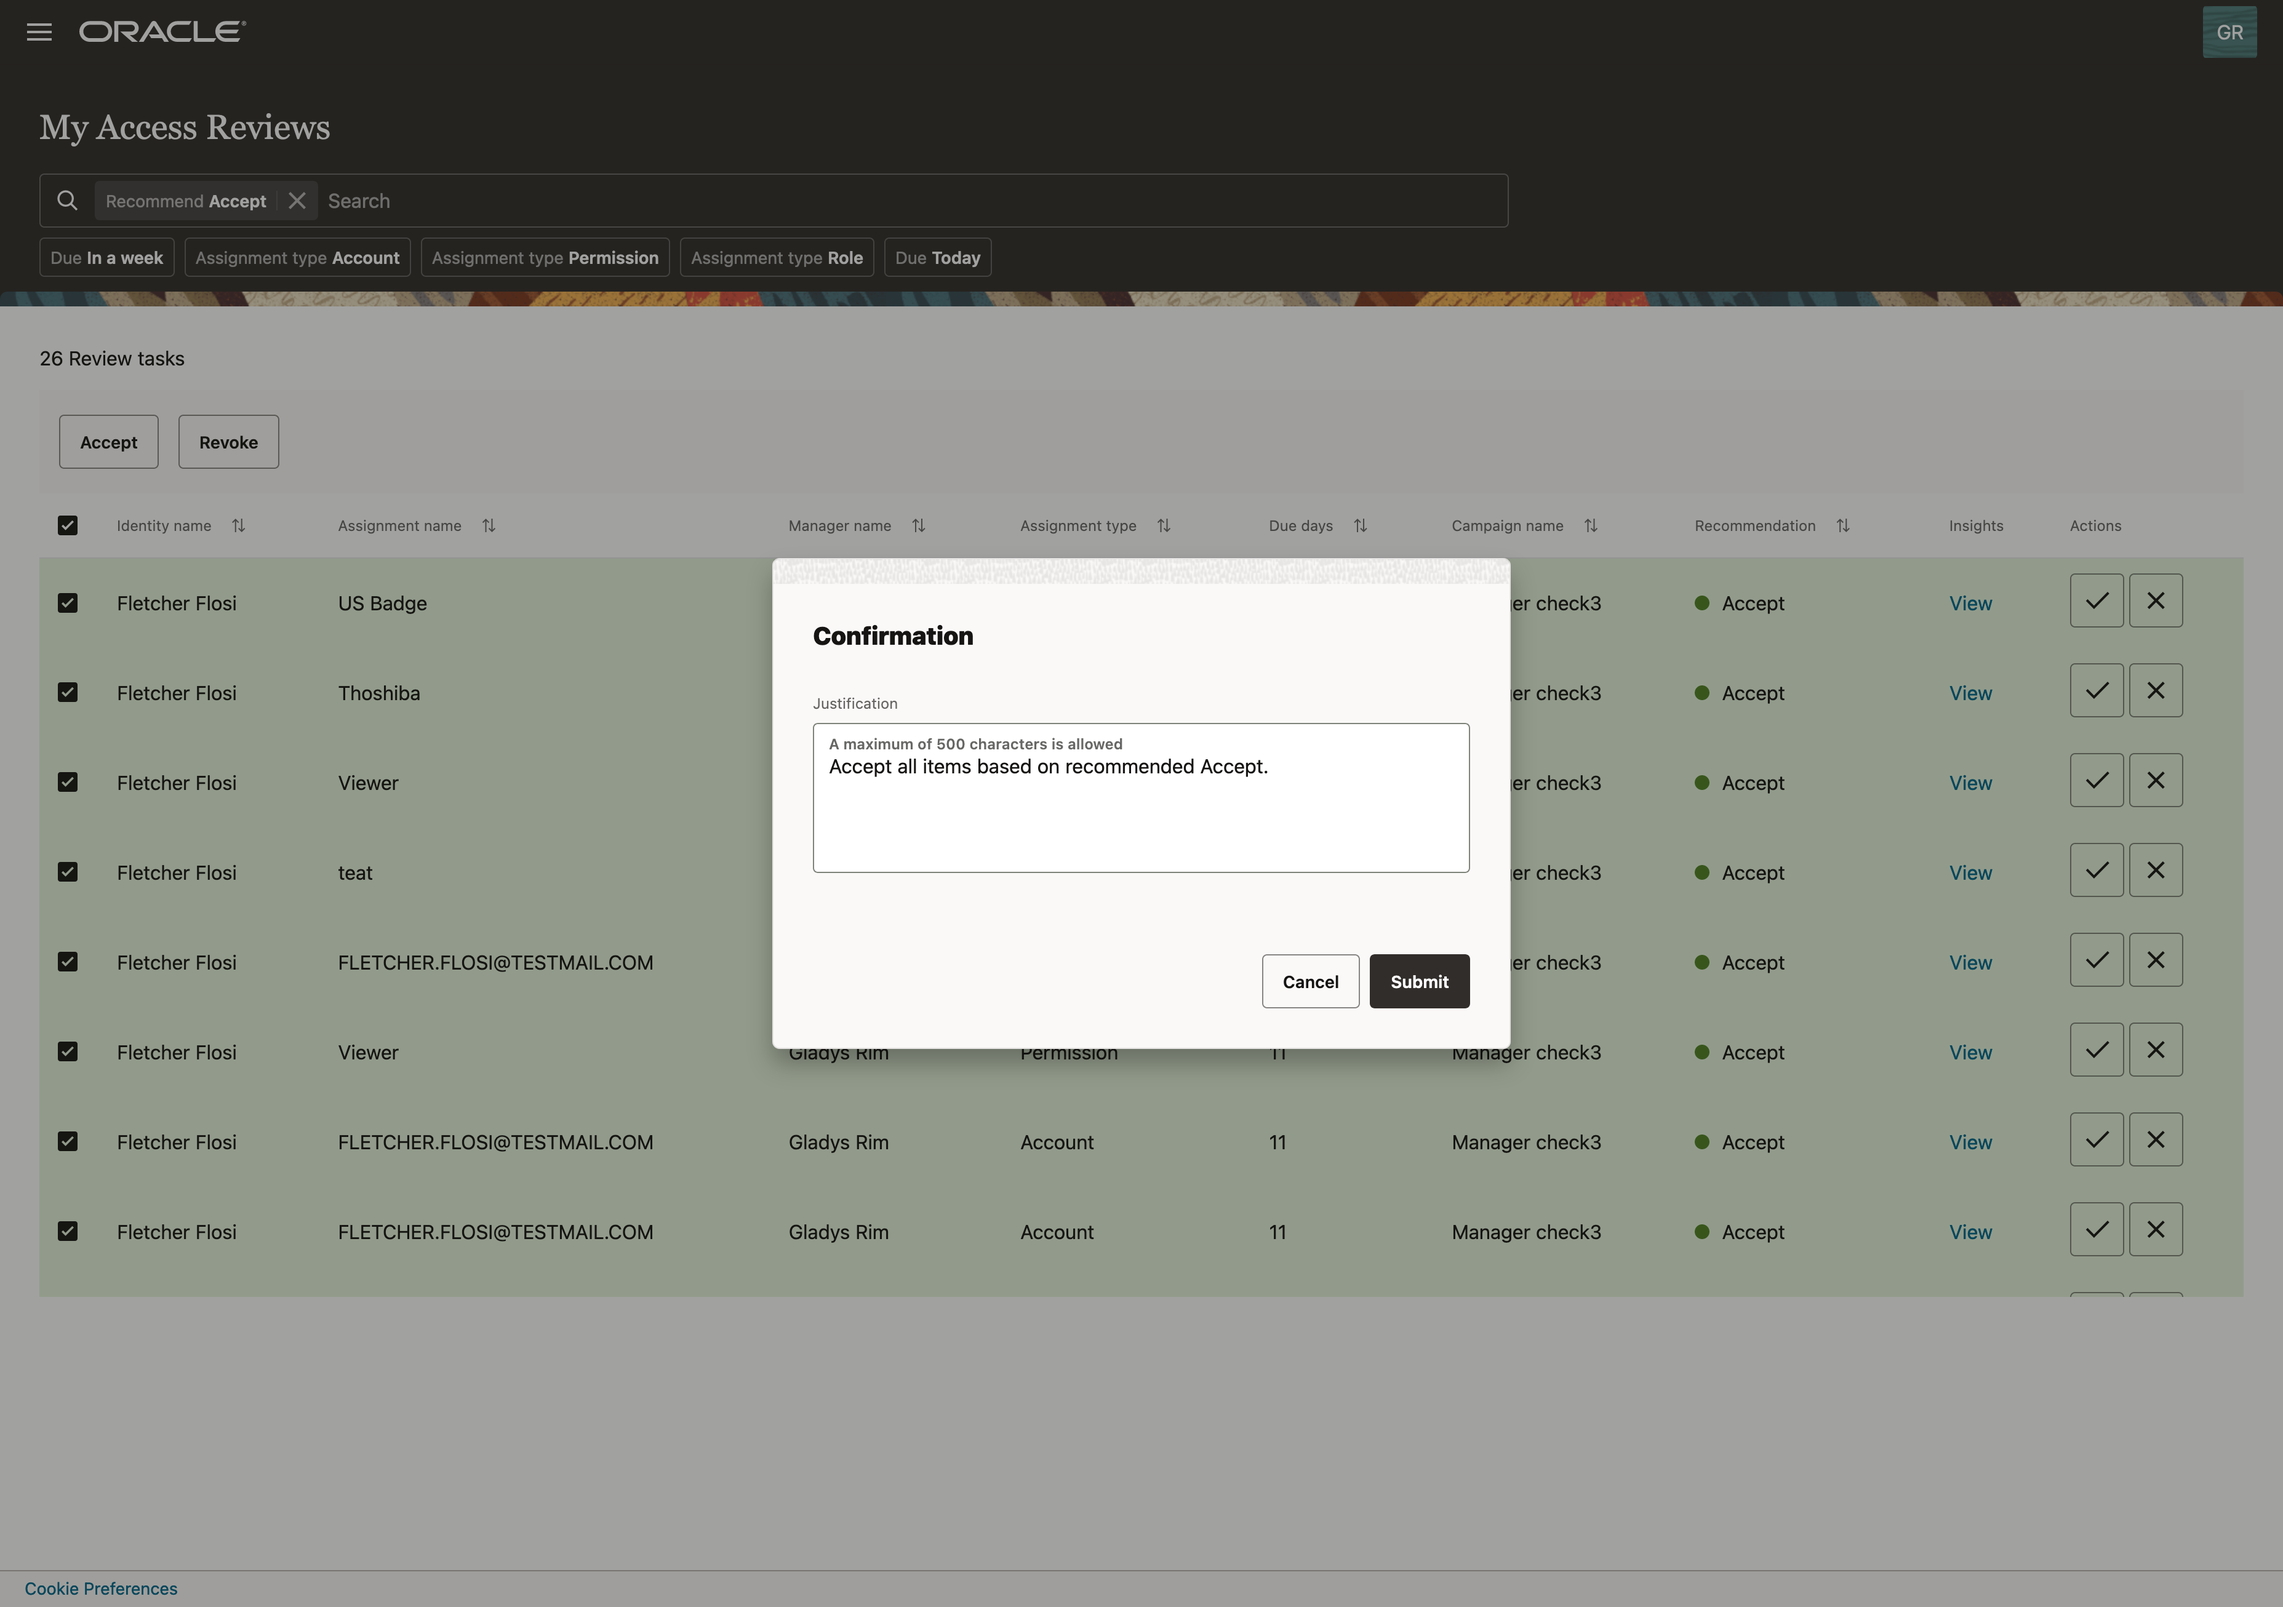
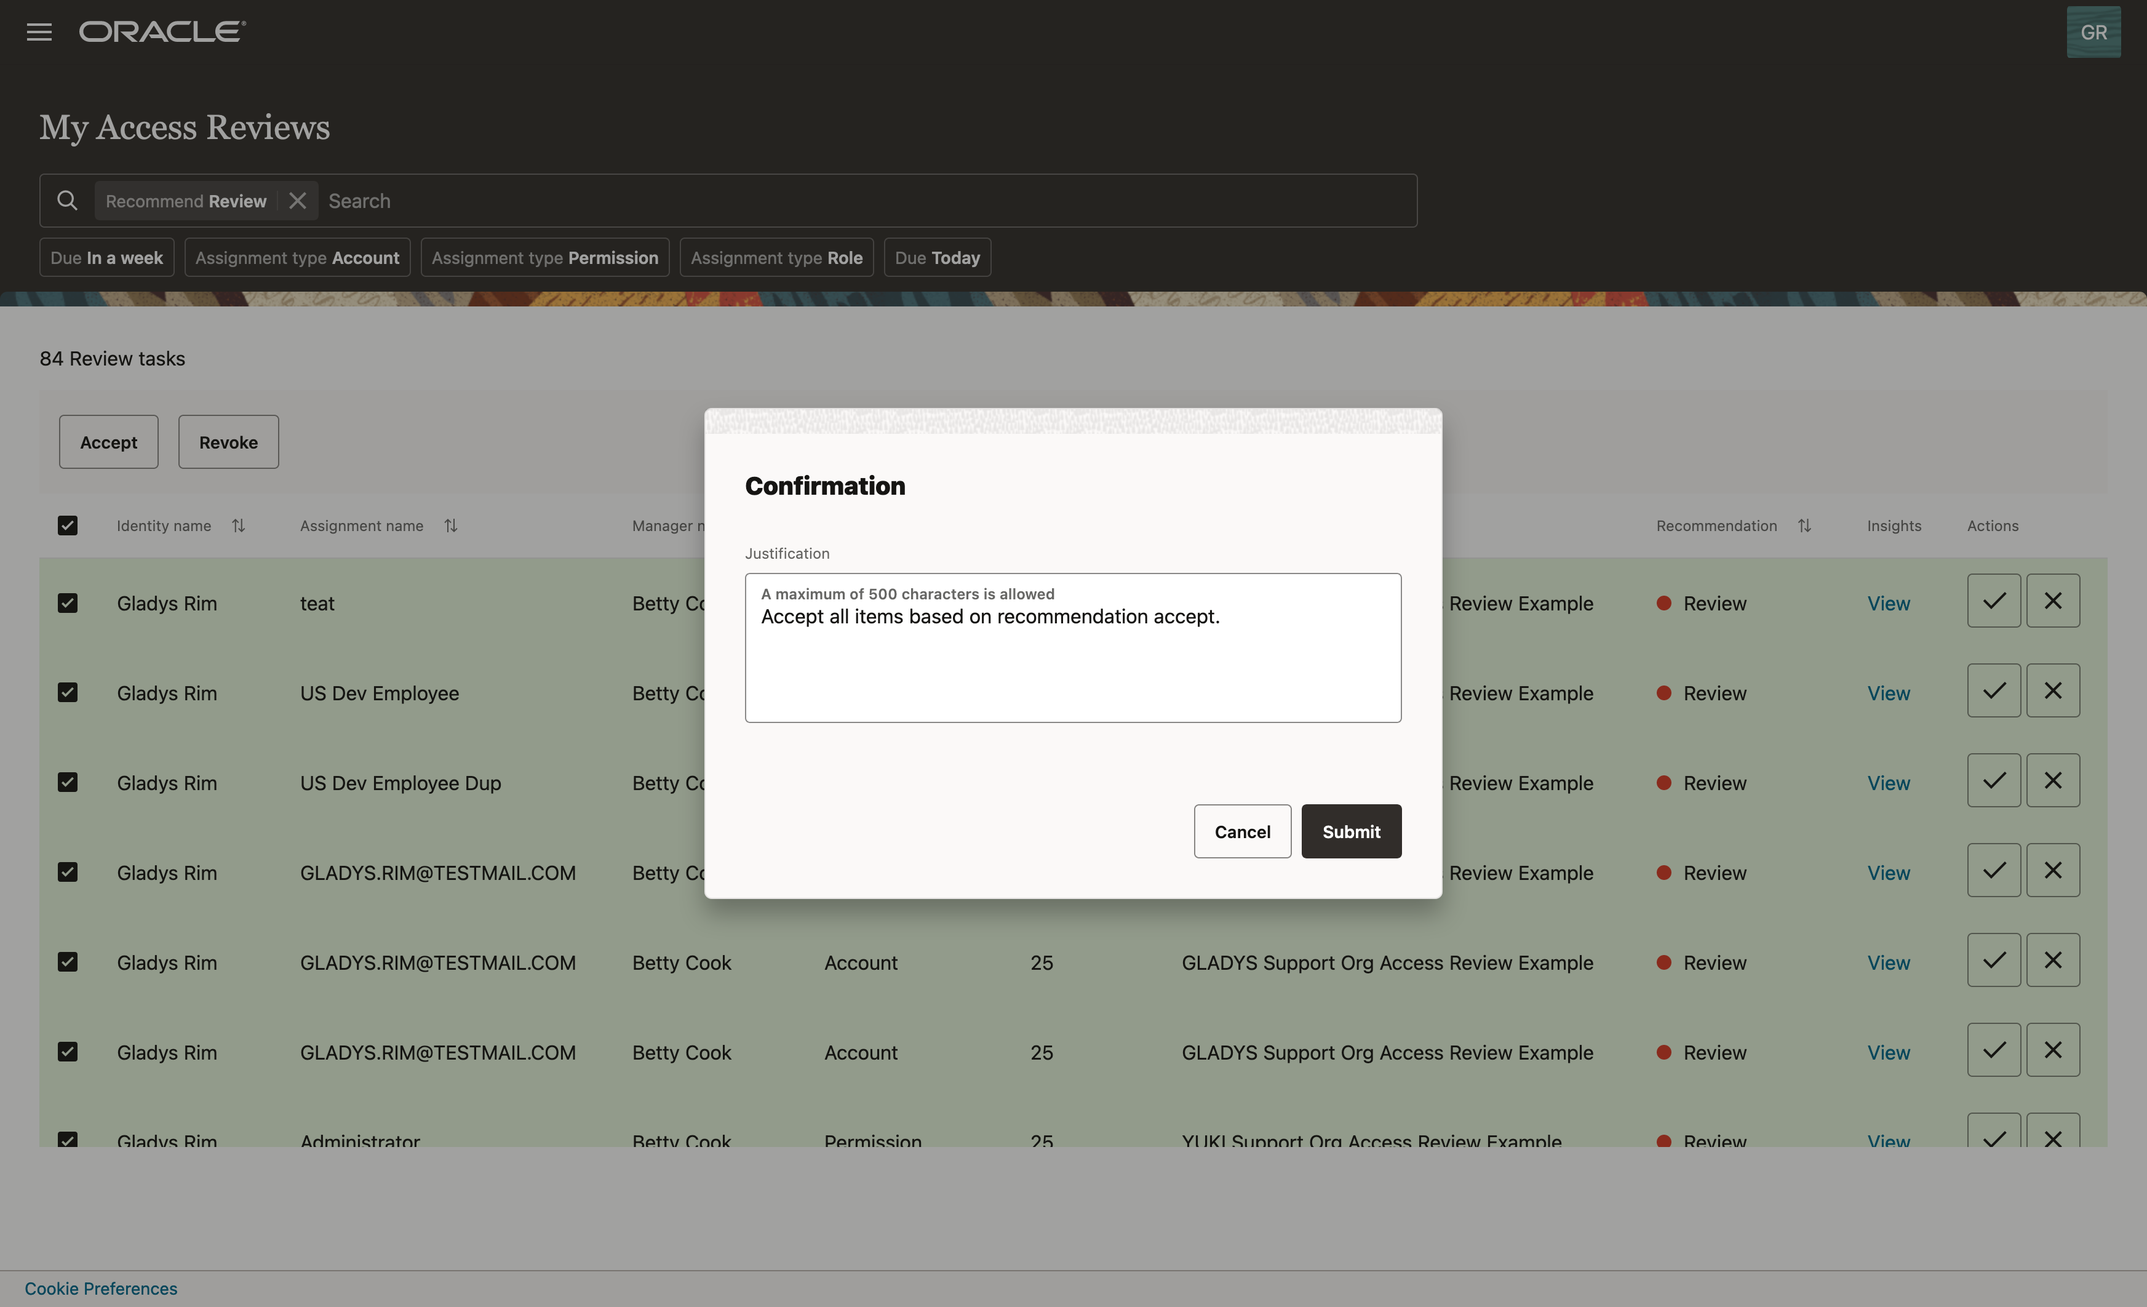
WMS ID: 11134 - Update OCW-22 HOL4305 Access Governance LiveLabs 10-5-2022 (#32)
* Add Access Governance LiveLabs for CloudWorld

Add Access Governance LiveLabs for CloudWorld

* Commit changes for 8/18 Thursday for AG LiveLabs

Commit changes for 8/18 Thursday.

* Update changes on Aug 23 AG Lab

Update changes on Aug 23 AG Lab

* Commit AG LiveLabs 8/29/2022

Commit AG LiveLabs 8/29/2022

* Update AG LiveLabs Sept 6 2022

Update AG LiveLabs Sept 6 2022

* Update CloudWorld HOL4305 LiveLabs based on feedback 09-08-2022

Update CloudWorld HOL4305 LiveLabs based on feedback 09-08-2022

* CloudWorld HOL4305 Access Governance LiveLabs update 09-18-2022

CloudWorld HOL4305 Access Governance LiveLabs update 09-18-2022

* OCW-22 HOL4305 Access Governance Lab Update 10/3/2022

OCW-22 HOL4305 Access Governance Lab Update 10/3/2022

* Update OCW22-HOL4305 Lab 10-4-2022

Update OCW22-HOL4305 Lab 10-4-2022

* Update to OCW-22 HOL4305 Access Governance LiveLabs 10-5-22

Update to OCW-22 HOL4305 Access Governance LiveLabs 10-5-22

diff --git a/accessgovernance/perform-access-review/perform-access-review.md b/accessgovernance/perform-access-review/perform-access-review.md
@@ -42,7 +42,7 @@ In this lab, you will:
     - In case you want to view the analytic insights, especially for items flagged as **Recommendation Review**, you may click on the **View** in **Insights** column to review a task.
   ![Access Review Tasks](images/select-review-recommended.png)
 Insights include:
-    - AI/ ML driven insights with alignment score. For example, notice the text **Most peers of this user don't have the same permissions for their accounts.**, which is the result based on an **AI/ML peer group analysis** conducted by **Oracle Access Governance**. 
+    - AI/ ML driven insights with **alignment score** uses AI/ML **peer group analysis** conducted by **Oracle Access Governance** to recommend this item for **Review** or **Accept** 
     - Description of the review task
     - Access review trail
     - Recent changes in user’s profile
@@ -51,9 +51,9 @@ Insights include:
   ![Access Review Tasks](images/revoke-accept-with-insights.png)
 4. Bulk action based on recommendation: You may also select multiple review tasks and decide to accept or revoke those privileges. For example, selecting the filter **Recommendation Accept** will return a list of access review items recommended by **Oracle Access Governance** for **Accept** based on **prescriptive analytics**. 
   ![Access Review](images/bulk-review.png)
-5. Bulk selection: select all **Recommendation Accept** items, then click on **Accept** button.
+5. Bulk selection: select all **Recommendation Accept** items, then click on **Accept** button. Likewise, select all **Recommendation Review** items, then click on **Revoke** button.
   ![Access Review Tasks](images/bulk-review-selection.png)
-5. Bulk action with justification: Provide justification for **Accept** then click on **Submit**.
+5. Bulk action with justification: Provide justification for **Accept** or **Revoke** then click on **Submit**.
   ![Access Review Tasks](images/bulk-accept-justification.png)
 
 ## Task 3: Login Oracle Access Governance as User Manager
@@ -78,13 +78,13 @@ Insights include:
     - Filter the review tasks list by selecting **Recommendation Accept** or **Recommendation Review**. Based on **Prescriptive Analytics** powered by **AI/ML algorithm**, **Oracle Access Governance** recommends action for each review item based on calculated risk scores and analytics.
     - You may choose to accept or revoke the review item by clicking on **Accept** or **Revoke** in the **Actions** column. The **Accept** action is suggested for **Recommendation Accept** items only.
     - In case you want to view the analytic insights, especially for item flagged as **Recommendation Review**, you may click on the **View** in **Insights** column to review a task.
-  ![Access Review Tasks](images/select-review-recommended.png)
+  ![Access Review Tasks](images/access-review-manager.png)
 Insights include:
-    - AI/ ML driven insights with alignment score. For example, notice the text **Most peers of this user don't have the same permissions for their accounts.**, which is the result based on an AI/ML **peer group analysis** conducted by **Oracle Access Governance**. 
+    - AI/ ML driven insights with **alignment score** uses AI/ML **peer group analysis** conducted by **Oracle Access Governance** to recommend this item for **Review** or **Accept** 
     - Description of the review task
     - Access review trail, you should see the **justification** entered by your employee self-reviewer in the previous task. 
     - Recent changes in user’s profile
-  ![Access Review Tasks](images/review-insight-analytics.png)
+  ![Access Review Tasks](images/access-review-insights-manager.png)
 3. Decide (Accept or Revoke): Review all insights and select to **Accept** or **Revoke** this access privilege. In this lab, you may pick one access review with **Recommendation Review**, view the detail, and **Revoke** it, which will trigger the auto-remediation process in the **Oracle Access Governance** system. 
 4. During this lab, you have navigated the **Oracle Access Governance** console to select **access review tasks** assigned to you as an **employee** and **manager user**, view **prescriptive analytics** and **recommendation** proposed by **Oracle Access Governance**, and make informed decisions **Accept** or **Revoke** for review tasks based on **peer group analysis** and **risk analysis**. 
 5. You may now **proceed to the next lab**. 

diff --git a/accessgovernance/manage-campaign/manage-campaign.md b/accessgovernance/manage-campaign/manage-campaign.md
@@ -36,7 +36,7 @@ In this lab, you will:
   ![Campaign Progress](images/view-campaign-progress.png)
 4. Click on the button **Additional Details** to see more details for the selected campaign.
   ![Campaign Additional Details](images/view-campaign-additional-details.png)
-5. Click on the drop-down menu of **Actions** and select **View report** to view a report showing the progress details of the selected campaign. 
+5. Click on the drop-down menu of **Actions** and select **View report** to view a report showing the progress details of the selected campaign. If the **campaign progress report** has not yet been generated, pick a previous campaign to view **progress report**.
   ![Campaign Progress Menu](images/view-campaign-progress-menu.png)
 6. You can review out-of-the-box analytics and reports on campaign progress. You can also download the report as a PDF file. 
   ![Campaign Analytics](images/view-campaign-analytics.png)
